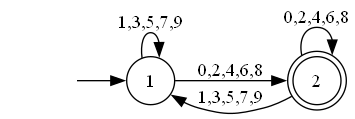
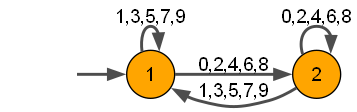
Grafos bonitos, falta checar muy pero que muy bien lar ER

Changed region(s): [[0.2169, 0.0804, 0.9915, 0.9643]]

diff --git a/practica4/Dannisversión/main.py b/practica4/Dannisversión/main.py
@@ -1,59 +1,48 @@
 from graphviz import Digraph
 import os
+from collections import defaultdict
 
-# 🔧 Forzamos manualmente el path a Graphviz para que funcione correctamente
+# 🔧 Aseguramos el path a Graphviz
 os.environ["PATH"] += os.pathsep + "C:\\Program Files\\Graphviz\\bin"
 
-# Pedimos el nombre del archivo donde definimos el autómata.
 print("Ingresa archivo donde está el autómata: ")
 fileName = input()
 
-def readInfo(list, index):
-    return list[index].strip().split(" ")
+def readInfo(lines, index):
+    return lines[index].strip().split(" ")
 
 def draw_automaton(transitions, initialState, finalStates):
     dot = Digraph()
-    dot.attr(rankdir='LR')  # Dirección de izquierda a derecha
+    dot.attr(rankdir='LR', fontname='Helvetica')  # Dirección y fuente
 
-    dot.node('', shape="none")  # Nodo invisible para el inicio
+    # ⚙ Estilo de flechas
+    dot.attr('edge', color='gray30', penwidth='2.2', fontcolor='black')
+
+    dot.node('', shape="none")  # Nodo invisible de inicio
 
     # Extraer estados únicos
     estados = set()
     for (origin, symbol), destination in transitions.items():
-        estados.add(origin)
-        estados.add(destination)
+        estados.update([origin, destination])
 
-    # Agregar nodos
+    # Todos los estados con el mismo estilo naranja
     for state in estados:
-        if state in finalStates:
-            dot.node(state, shape="doublecircle")
-        else:
-            dot.node(state, shape="circle")
+        dot.node(state, shape="circle", style='filled', fillcolor='orange', fontname='Helvetica')
 
-    # Flecha de inicio
-    dot.edge('', initialState)
+    dot.edge('', initialState)  # Flecha de inicio
 
-    # Agregar transiciones
-    """ for (origin, symbol), destination in transitions.items():
-        dot.edge(origin, destination, label=symbol) """
-    
-    from collections import defaultdict
-
-    # Agrupar transiciones por origen y destino
+    # Agrupar transiciones
     edges = defaultdict(list)
     for (origin, symbol), destination in transitions.items():
         edges[(origin, destination)].append(symbol)
 
-    # Agregar transiciones agrupadas
     for (origin, destination), symbols in edges.items():
-        dot.edge(origin, destination, label=",".join(symbols))
+        dot.edge(origin, destination, label=",".join(symbols), fontname='Helvetica')
 
-
-    # Renderizar el grafo
     dot.render('automata', format='png', cleanup=True)
     print("✅ Imagen del autómata generada como 'automata.png'")
 
-# Intentamos abrir el archivo
+# Carga del archivo
 try:
     with open(fileName, "r") as file:
         lines = file.readlines()
@@ -64,9 +53,11 @@ try:
         transitions = {}
 
         for line in lines[4:]:
-            fun = line.strip().split(" ")
-            origin, symbol = fun[0].split(",")
-            transitions[(origin, symbol)] = fun[1]
+            if not line.strip():
+                continue
+            origin, symbol = line.strip().split(" ")[0].split(",")
+            destination = line.strip().split(" ")[1]
+            transitions[(origin, symbol)] = destination
 
         print(" * Autómata cargado.")
         for key, value in transitions.items():
@@ -94,8 +85,7 @@ def verifyInput(cadena):
 
 # Verificación de cadenas
 print(" * Ingrese cadenas para validar el autómata. (Escribe 'SALIR' para terminar)")
-cadena = ""
-while cadena.upper() != "SALIR":
+while True:
     cadena = input()
     if cadena.upper() == "SALIR":
         break
